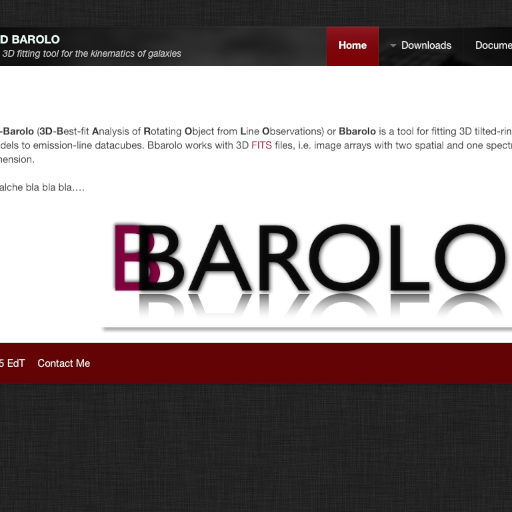
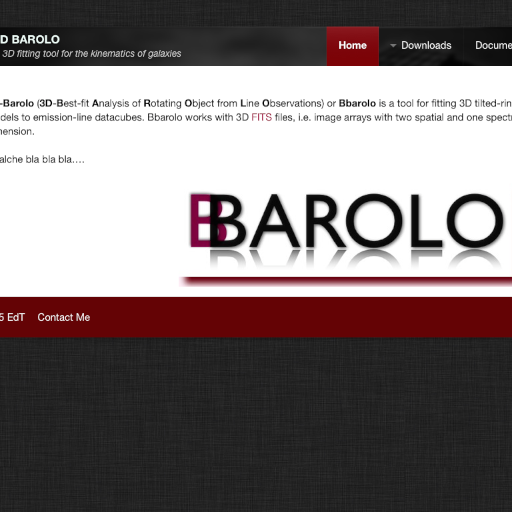
Bbarolo pages

Changed region(s): [[0.0, 0.375, 1.0, 0.75], [0.0, 0.1875, 1.0, 0.375]]

diff --git a/BBAROLO.rw6/QuickLook/Preview.html b/BBAROLO.rw6/QuickLook/Preview.html
@@ -47,7 +47,7 @@
 				</div>
 				<section id="container" class="theme">
 					<section id="content" class="theme">
-						<div id="push"><strong><br /><br />3D-Barolo</strong> (<strong>3D</strong>-<strong>B</strong>est-fit <strong>A</strong>nalysis of <strong>R</strong>otating <strong>O</strong>bject from <strong>L</strong>ine <strong>O</strong>bservations) or <strong>Bbarolo</strong> is a tool for fitting 3D tilted-ring models to emission-line datacubes. Bbarolo works with 3D <a href="http://fits.gsfc.nasa.gov/">FITS</a> files, i.e. image arrays with two spatial and one spectral dimension.<br /><br />Qualche bla bla bla&hellip;.<br /><br /> <div class="image-right"><img class="imageStyle" alt="Bbarolo" src="files/bbarolo.jpg" width="634" height="182" /></div></div>
+						<div id="push"><span style="color:#000000;font-weight:bold; ">3D-Barolo</span><span style="color:#000000;"> (</span><span style="color:#000000;font-weight:bold; ">3D</span><span style="color:#000000;">-</span><span style="color:#000000;font-weight:bold; ">B</span><span style="color:#000000;">est-fit </span><span style="color:#000000;font-weight:bold; ">A</span><span style="color:#000000;">nalysis of </span><span style="color:#000000;font-weight:bold; ">R</span><span style="color:#000000;">otating </span><span style="color:#000000;font-weight:bold; ">O</span><span style="color:#000000;">bject from </span><span style="color:#000000;font-weight:bold; ">L</span><span style="color:#000000;">ine </span><span style="color:#000000;font-weight:bold; ">O</span><span style="color:#000000;">bservations) or </span><span style="color:#000000;font-weight:bold; ">Bbarolo</span><span style="color:#000000;"> is a tool for fitting 3D tilted-ring models to emission-line datacubes. Bbarolo works with 3D <a href="http://fits.gsfc.nasa.gov/">FITS</a> files, i.e. image arrays with two spatial and one spectral dimension.<br /><br />Qualche bla bla bla&hellip;.<br /><br /></span><div class="image-right"><img class="imageStyle" alt="Bbarolo" src="files/bbarolo-2.jpg" width="516" height="155" /></div></div>
 					</section>
 					<aside class="theme">
 						<h2 id="sideTitle"></h2>

diff --git a/index.html b/index.html
@@ -47,7 +47,7 @@
 				</div>
 				<section id="container" class="theme">
 					<section id="content" class="theme">
-						<div id="push"><strong><br /><br />3D-Barolo</strong> (<strong>3D</strong>-<strong>B</strong>est-fit <strong>A</strong>nalysis of <strong>R</strong>otating <strong>O</strong>bject from <strong>L</strong>ine <strong>O</strong>bservations) or <strong>Bbarolo</strong> is a tool for fitting 3D tilted-ring models to emission-line datacubes. Bbarolo works with 3D <a href="http://fits.gsfc.nasa.gov/">FITS</a> files, i.e. image arrays with two spatial and one spectral dimension.<br /><br />Qualche bla bla bla&hellip;.<br /><br /> <div class="image-right"><img class="imageStyle" alt="Bbarolo" src="files/bbarolo.jpg" width="634" height="182" /></div></div>
+						<div id="push"><span style="color:#000000;font-weight:bold; ">3D-Barolo</span><span style="color:#000000;"> (</span><span style="color:#000000;font-weight:bold; ">3D</span><span style="color:#000000;">-</span><span style="color:#000000;font-weight:bold; ">B</span><span style="color:#000000;">est-fit </span><span style="color:#000000;font-weight:bold; ">A</span><span style="color:#000000;">nalysis of </span><span style="color:#000000;font-weight:bold; ">R</span><span style="color:#000000;">otating </span><span style="color:#000000;font-weight:bold; ">O</span><span style="color:#000000;">bject from </span><span style="color:#000000;font-weight:bold; ">L</span><span style="color:#000000;">ine </span><span style="color:#000000;font-weight:bold; ">O</span><span style="color:#000000;">bservations) or </span><span style="color:#000000;font-weight:bold; ">Bbarolo</span><span style="color:#000000;"> is a tool for fitting 3D tilted-ring models to emission-line datacubes. Bbarolo works with 3D <a href="http://fits.gsfc.nasa.gov/">FITS</a> files, i.e. image arrays with two spatial and one spectral dimension.<br /><br />Qualche bla bla bla&hellip;.<br /><br /></span><div class="image-right"><img class="imageStyle" alt="Bbarolo" src="files/bbarolo-2.jpg" width="516" height="155" /></div></div>
 					</section>
 					<aside class="theme">
 						<h2 id="sideTitle"></h2>

diff --git a/styled/downloads/index.html b/styled/downloads/index.html
@@ -47,9 +47,9 @@
 				</div>
 				<section id="container" class="theme">
 					<section id="content" class="theme">
-						<div id="push"><div class="filesharing-description"><h2>Download the binaries</h2><br />Here you can download the pre-compiled binaries of <strong>Barolo</strong>. Downloads includes both the GUI and the Command Line executable (for Mac application, this latter can be found in the package contents).<br /><br /></div><div class="filesharing-item">
+						<div id="push"><div class="filesharing-description"><h2>Download the binaries</h2><br />Here you can download the pre-compiled binaries of latest <strong>Barolo </strong>version. <br />Downloads includes both the GUI (experimental) and the Command Line executable. For the Mac application, the latter can be found in the package contents.<br /><br /></div><div class="filesharing-item">
 <div class="filesharing-item-title">
-<a href="http://">Mac OS X >10.7</a>
+<a href="http://">Mac OS X &ge;10.7</a>
 </div>
 <div class="filesharing-item-description">
 GUI and Command Line for OS X Lion or later</div>
@@ -65,18 +65,18 @@ GUI and Command Line for OS X Snow Leopard</div>
 
 <div class="filesharing-item">
 <div class="filesharing-item-title">
-<a href="http://">Linux 64</a>
+<a href="http://">Linux 64 bit</a>
 </div>
 <div class="filesharing-item-description">
-GUI and Command Line for Linux 64 bit</div>
+GUI and Command Line for Linux x86_64</div>
 </div>
 
 <div class="filesharing-item">
 <div class="filesharing-item-title">
-<a href="http://">Linux 32 </a>
+<a href="http://">Linux 32 bit</a>
 </div>
 <div class="filesharing-item-description">
-GUI and Command Line for Linux 32 bit</div>
+GUI and Command Line for Linux x86</div>
 </div>
 
 </div>
